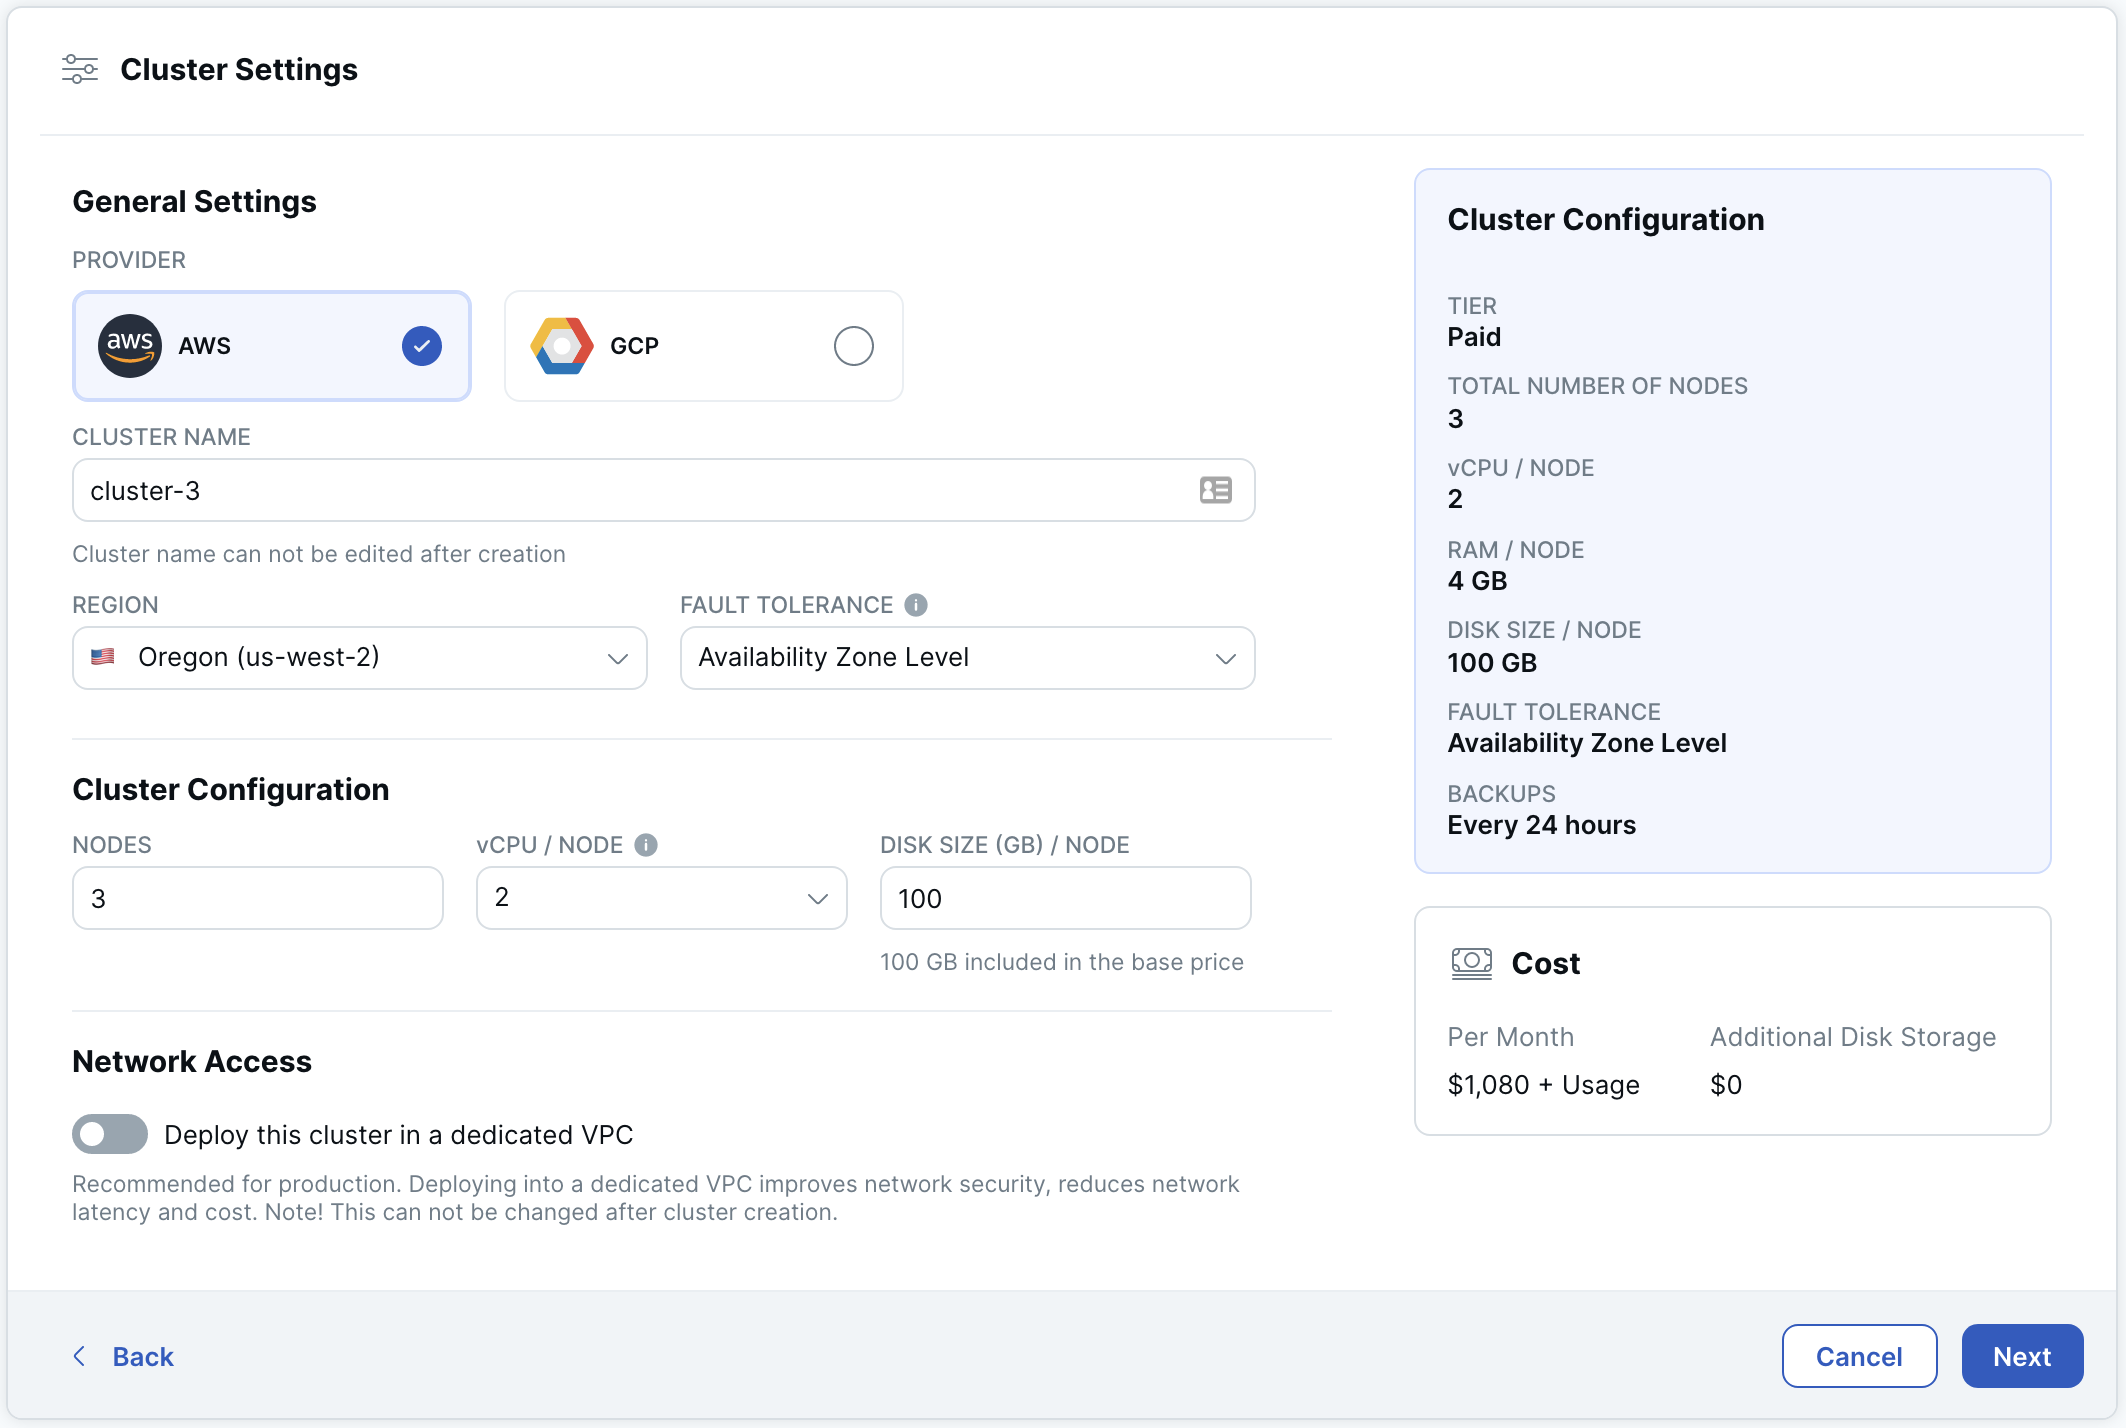
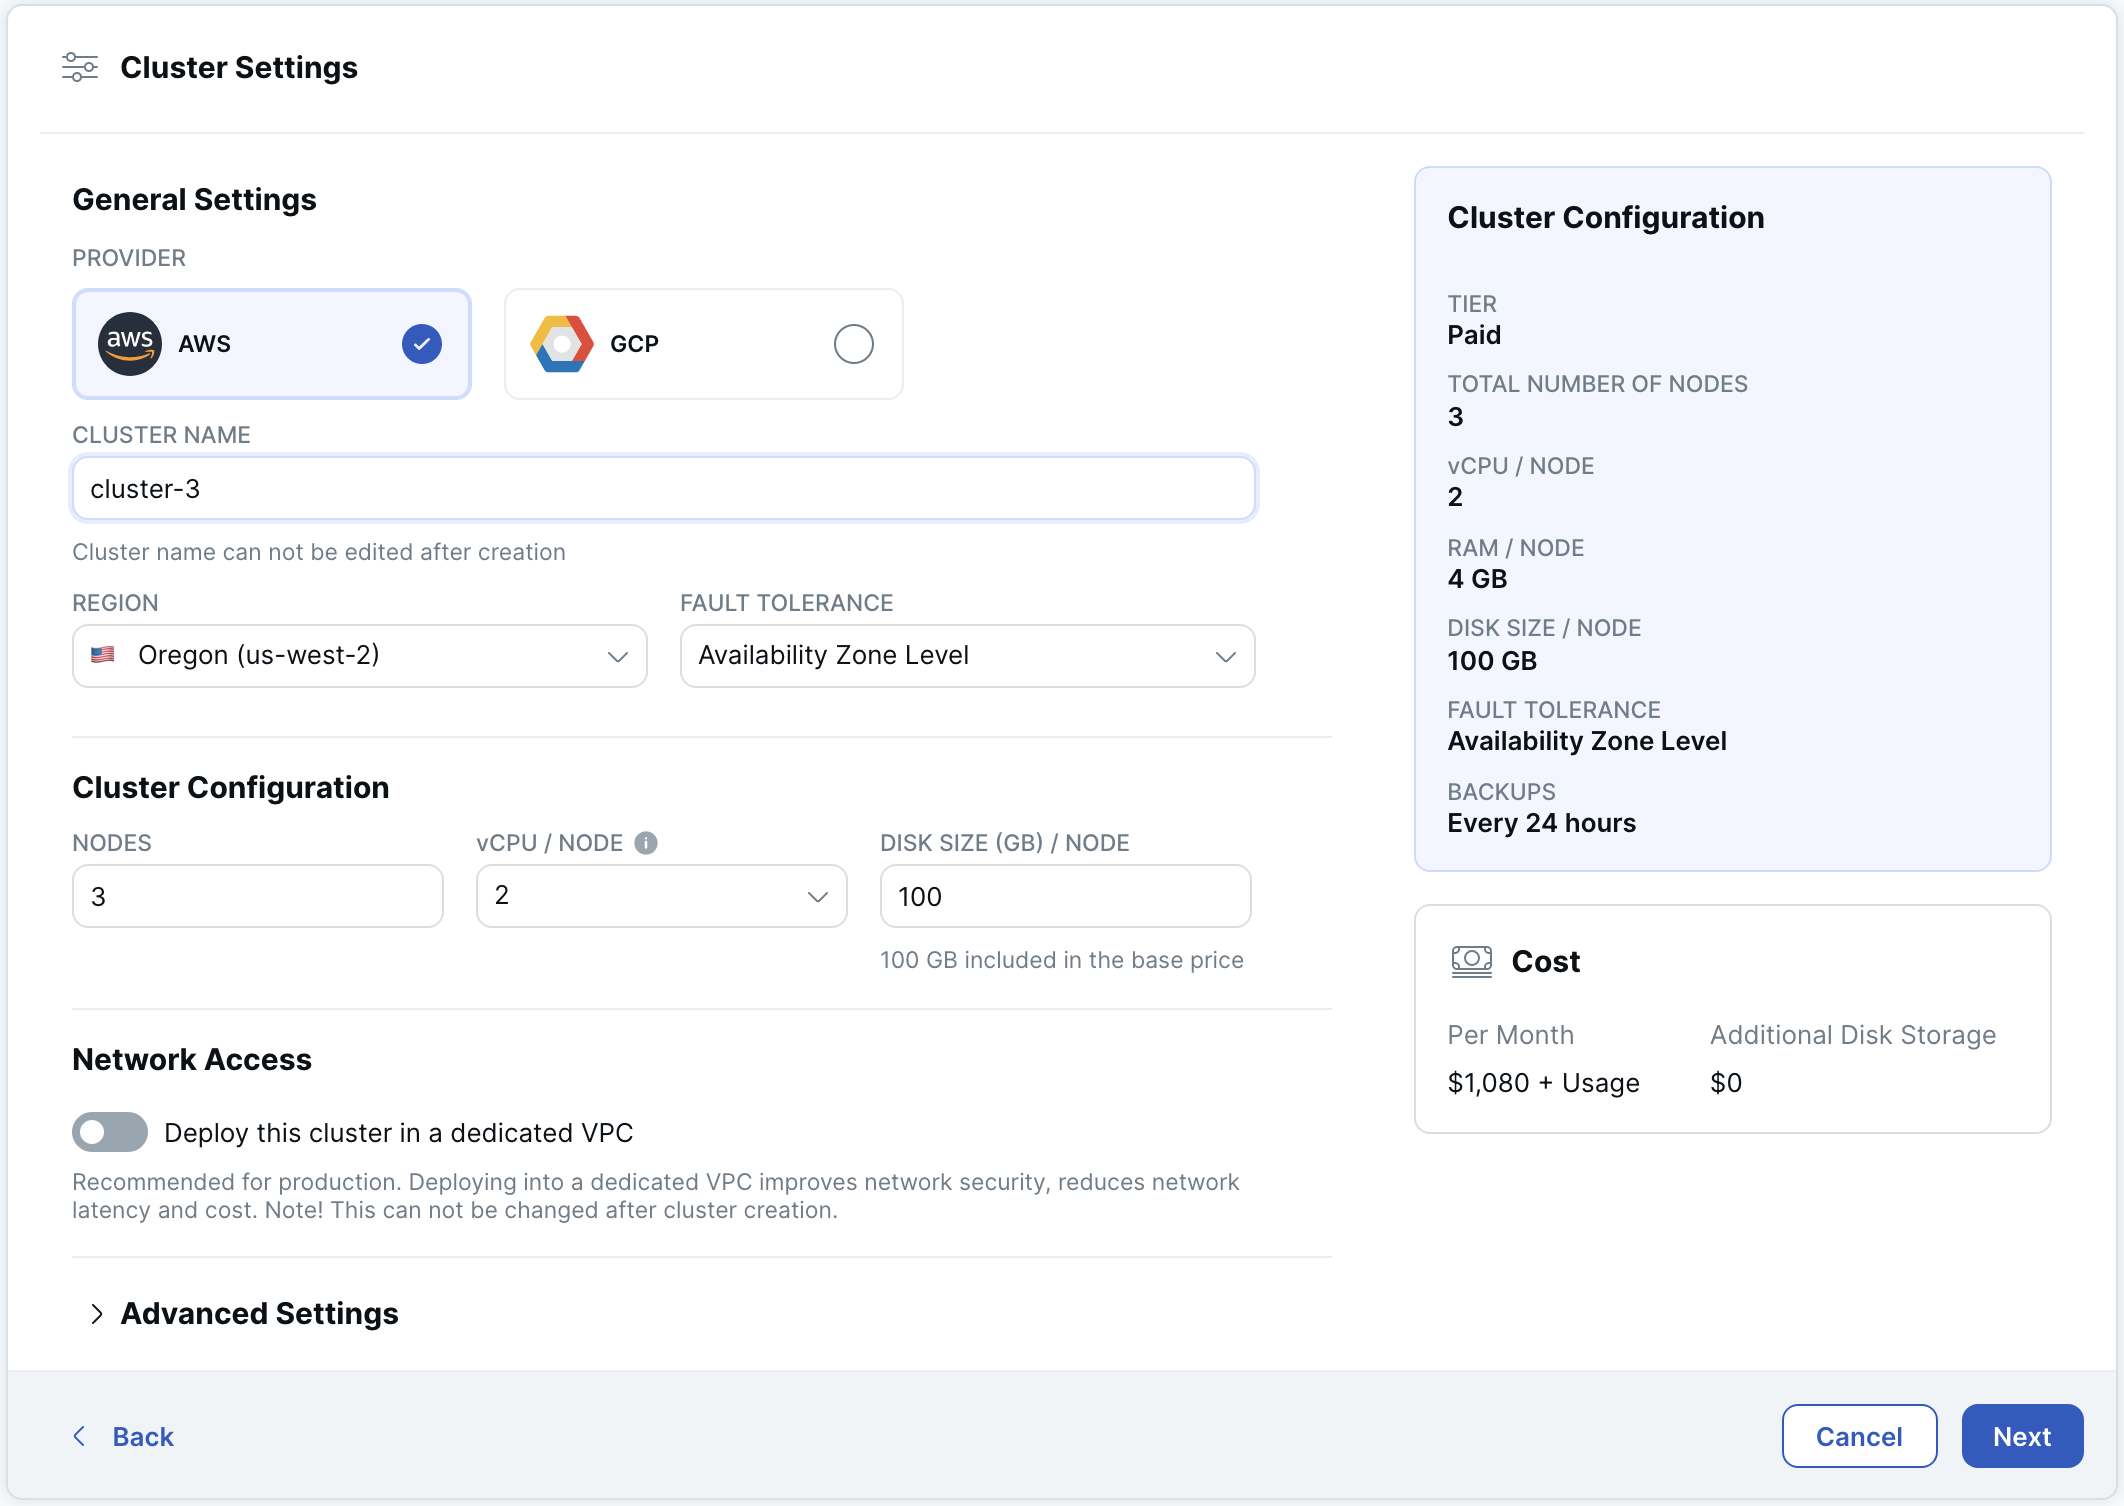
Add select database version and overview

diff --git a/docs/content/latest/yugabyte-cloud/cloud-basics/create-clusters-overview.md b/docs/content/latest/yugabyte-cloud/cloud-basics/create-clusters-overview.md
@@ -1,0 +1,79 @@
+---
+title: Planning a cluster
+linkTitle: Planning a cluster
+description: Planning a cluster in Yugabyte Cloud.
+headcontent:
+image: /images/section_icons/deploy/enterprise.png
+menu:
+  latest:
+    identifier: create-clusters-overview
+    parent: cloud-basics
+    weight: 10
+isTocNested: true
+showAsideToc: true
+---
+
+Before deploying a production cluster, you need to consider the following factors.
+
+## Location and provider
+
+Yugabyte Cloud supports AWS and GCP.
+
+For lowest data transfer costs, use the same cloud provider and locate your cluster in the same region as the applications that will be connecting to the cluster. For a list of supported regions, refer to [Cloud provider regions](../../release-notes/#cloud-provider-regions).
+
+## Sizing
+
+The basic configuration for Yugabyte Cloud clusters includes 2 vCPUs per node. Each vCPU comes with 50GB of storage. A node has a minimum of 2 vCPUs. 
+
+Depending on your performance requirements, you can increase the number of vCPUs per node, as well as the total number of nodes. For production clusters, a minimum of 3 nodes with 2 vCPUs per node is recommended.
+
+Yugabyte Cloud supports both vertical and horizontal scaling, so you can change these values after the cluster is created if your configuration doesn't match your performance requirements. This includes increasing or decreasing vCPUs and increasing storage, and adding or removing nodes. Refer to [Scaling clusters](../../cloud-clusters/configure-clusters/).
+
+### Fault tolerance
+
+The Fault Tolerance determines how resilient the cluster is to node and cloud zone failures. Yugabyte Cloud provides the following options for providing replication and redundancy:
+
+- Node Level. Includes a minimum of 3 nodes deployed in a single availability zone with a [replication factor](../../../architecture/docdb-replication/replication/) (RF) of 3. YugabyteDB can continue to do reads and writes even in case of a node failure, but this configuration is not resilient to cloud availability zone outages.
+
+- Availability Zone Level. Includes a minimum of 3 nodes spread across multiple availability zones with a RF of 3. YugabyteDB can continue to do reads and writes even in case of a cloud availability zone failure. This configuration provides the maximum protection for a data center failure.
+
+- Region Level. Yugabyte supports multi-region clusters with regional fault tolerance. Region level can’t be self-provisioned in Yugabyte Cloud. Contact Yugabyte Support for assistance.
+
+While the cluster fault tolerance cannot be changed once the cluster is created, you can scale horizontally as follows:
+
+- For Node Level, you can scale nodes in increments of 1.
+- For Availability Zone Level, you can scale nodes in increments of 3.
+
+For production clusters, Availability Zone Level is recommended.
+
+For application development and testing, you can set Fault tolerance to None to create a single-node cluster. Single-node clusters cannot be scaled.
+
+## Security
+
+If your applications are running in a virtual private cloud (VPC), deploy your cluster in a VPC to improve security and lower network latency. You need to create the VPC before you deploy the cluster. Yugabyte Cloud supports AWS and GCP for VPCs. Refer to [VPC network](../../cloud-secure-clusters/cloud-vpcs/).
+
+By default, access to clusters is restricted to IP addresses that you specify in IP allow lists. Once the cluster is deployed, add the IP addresses of the clients to the cluster allow list. This includes the CIDR ranges of any application VPCs, and addresses of users connecting to the cluster. Refer to [IP allow lists](../../cloud-secure-clusters/add-connections/).
+
+## YugabyteDB version
+
+By default, clusters are created using a recent release from the [stable release series](../../../releases/versioning/#stable-releases) of YugabyteDB.
+
+You can opt to create your database using an edge release for development and testing. Edge releases are typically taken from the [latest release series](../../../releases/versioning/#latest-releases) of YugabyteDB, though they can also include a recently released stable release.
+
+If you require a feature from an edge release (that is not available in a stable release) for a production deployment, first contact [Yugabyte Support](https://support.yugabyte.com/hc/en-us/requests/new?ticket_form_id=360003113431).
+
+Once you choose a track, database upgrades will continue to take releases from the track you chose.
+
+## Pricing
+
+The biggest factor in the price of a cluster is its size. Cluster charges are based on the total number of vCPUs used and how long they have been running.
+
+Cluster per-hour charges include free allowances for disk storage, backup storage, and data transfer. If you use more than the free allowance, you incur overages on top of the base vCPU capacity cost. For more details, refer to [Cluster costs](../../cloud-admin/cloud-billing-costs/).
+
+Before creating a cluster, you need to create your billing profile and add a payment method. Refer to [Manage your billing profile and payment method](../../cloud-admin/cloud-billing-profile/).
+
+If you are interested in evaluating Yugabyte Cloud for production use and would like trial credits to conduct a proof-of-concept (POC), contact [Yugabyte Support](https://support.yugabyte.com/hc/en-us/requests/new?ticket_form_id=360003113431).
+
+## Next steps
+
+- [Create a cluster](../create-clusters/)

diff --git a/docs/content/latest/yugabyte-cloud/cloud-basics/create-clusters.md b/docs/content/latest/yugabyte-cloud/cloud-basics/create-clusters.md
@@ -11,7 +11,7 @@ menu:
   latest:
     identifier: create-clusters
     parent: cloud-basics
-    weight: 10
+    weight: 50
 isTocNested: true
 showAsideToc: true
 ---
@@ -38,13 +38,13 @@ The **Create Cluster** wizard has the following three pages:
 
 ### Select Cluster Type
 
-Use the **Free** cluster to get started with YugabyteDB. Although it's not suitable for production workloads, the free cluster includes enough resources to start exploring the core features available for developing applications with YugabyteDB, including:
+Use the free cluster to get started with YugabyteDB. Although it's not suitable for production workloads, the free cluster includes enough resources to start exploring the core features available for developing applications with YugabyteDB, including:
 
 - Single node
 - Up to 2 vCPUs and 10 GB of storage, depending on the cloud provider
 - Limit of one free cluster per account
 
-**Paid** clusters support multi-node and highly available deployments and include the following features:
+Standard clusters support multi-node and highly available deployments and include the following features:
 
 - No limit on cluster size - choose any cluster size based on your use case
 - Horizontal and vertical scaling - add or remove nodes and add storage to suit your production loads
@@ -68,7 +68,7 @@ Set the following options:
 - **Cluster Name**: Enter a name for the cluster.
 - **Region**: Choose the Region where the cluster will be located.
 
-If you are creating a **Paid** cluster, set the following additional options:
+If you are creating a standard (not free) cluster, set the following additional options:
 
 - **Fault Tolerance** determines how resilient the cluster is to node and cloud zone failures:
 
@@ -84,9 +84,11 @@ If you are creating a **Paid** cluster, set the following additional options:
 
 - **Network Access**: If you want to use a VPC for network isolation and security, select **Deploy this cluster in a dedicated VPC**, then select the VPC. Only VPCs using the selected cloud provider are listed. The VPC must be created before deploying the cluster. Refer to [VPC networking](../../cloud-secure-clusters/cloud-vpcs/).
 
+- **Database Version**: By default, clusters are deployed using a recent build from the Stable release series. Free clusters are always deployed with an edge release (typically from the Latest release series, but occasionally a new stable release). If you want to use an edge release for a standard cluster, click **Advanced** and choose a release. If you have arranged a custom build with Yugabyte, it will also be listed here.
+
 The cluster costs are estimated automatically under **Cost**. **+ Usage** refers to any potential overages from exceeding the free allowances for disk storage, backup storage, and data transfer. For information on how clusters are costed, refer to [Cluster costs](../../cloud-admin/cloud-billing-costs/).
 
-Paid clusters support both horizontal and vertical scaling; you can change the cluster configuration after the cluster is created using the **Edit Configuration** settings. Refer to [Configure clusters](../../cloud-clusters/configure-clusters#infrastructure).
+Standard clusters support both horizontal and vertical scaling; you can change the cluster configuration after the cluster is created using the **Edit Configuration** settings. Refer to [Configure clusters](../../cloud-clusters/configure-clusters#infrastructure).
 
 ### Database Admin Credentials
 
@@ -100,7 +102,7 @@ Download the credentials, and click **Create Cluster**.
 
 {{< warning title="Important" >}}
 
-Save your credentials in a safe place. If you lose these credentials you will not be able to use the database.
+Save your database credentials in a safe place. If you lose these credentials you will not be able to use the database.
 
 {{< /warning >}}
 

diff --git a/docs/content/latest/yugabyte-cloud/cloud-basics/_index.md b/docs/content/latest/yugabyte-cloud/cloud-basics/_index.md
@@ -25,6 +25,18 @@ You deploy clusters in Yugabyte Cloud using the **Create Cluster** wizard. Befor
 <div class="row">
 
   <div class="col-12 col-md-6 col-lg-12 col-xl-6">
+    <a class="section-link icon-offset" href="create-clusters-overview/">
+      <div class="head">
+        <img class="icon" src="/images/section_icons/quick_start/create_cluster.png" aria-hidden="true" />
+        <div class="title">Planning your cluster</div>
+      </div>
+      <div class="body">
+        Plan your production deployment.
+      </div>
+    </a>
+  </div>
+
+  <div class="col-12 col-md-6 col-lg-12 col-xl-6">
     <a class="section-link icon-offset" href="create-clusters/">
       <div class="head">
         <img class="icon" src="/images/section_icons/quick_start/create_cluster.png" aria-hidden="true" />
@@ -36,28 +48,4 @@ You deploy clusters in Yugabyte Cloud using the **Create Cluster** wizard. Befor
     </a>
   </div>
 
-<!--
-  <div class="col-12 col-md-6 col-lg-12 col-xl-6">
-    <a class="section-link icon-offset" href="vpc-peers/">
-      <div class="head">
-        <img class="icon" src="/images/section_icons/quick_start/create_cluster.png" aria-hidden="true" />
-        <div class="title">VPC peering</div>
-      </div>
-      <div class="body">
-        Add VPC peers to allow applications running on other cloud instances to communicate with your Yugabyte Cloud clusters.
-      </div>
-    </a>
-  </div>
-  <div class="col-12 col-md-6 col-lg-12 col-xl-6">
-    <a class="section-link icon-offset" href="endpoints/">
-      <div class="head">
-        <img class="icon" src="/images/section_icons/manage/enterprise/edit_universe.png" aria-hidden="true" />
-        <div class="title">Manage Endpoints</div>
-      </div>
-      <div class="body">
-        Manage the endpoints for connecting to clusters.
-      </div>
-    </a>
-  </div>
--->
 </div>
